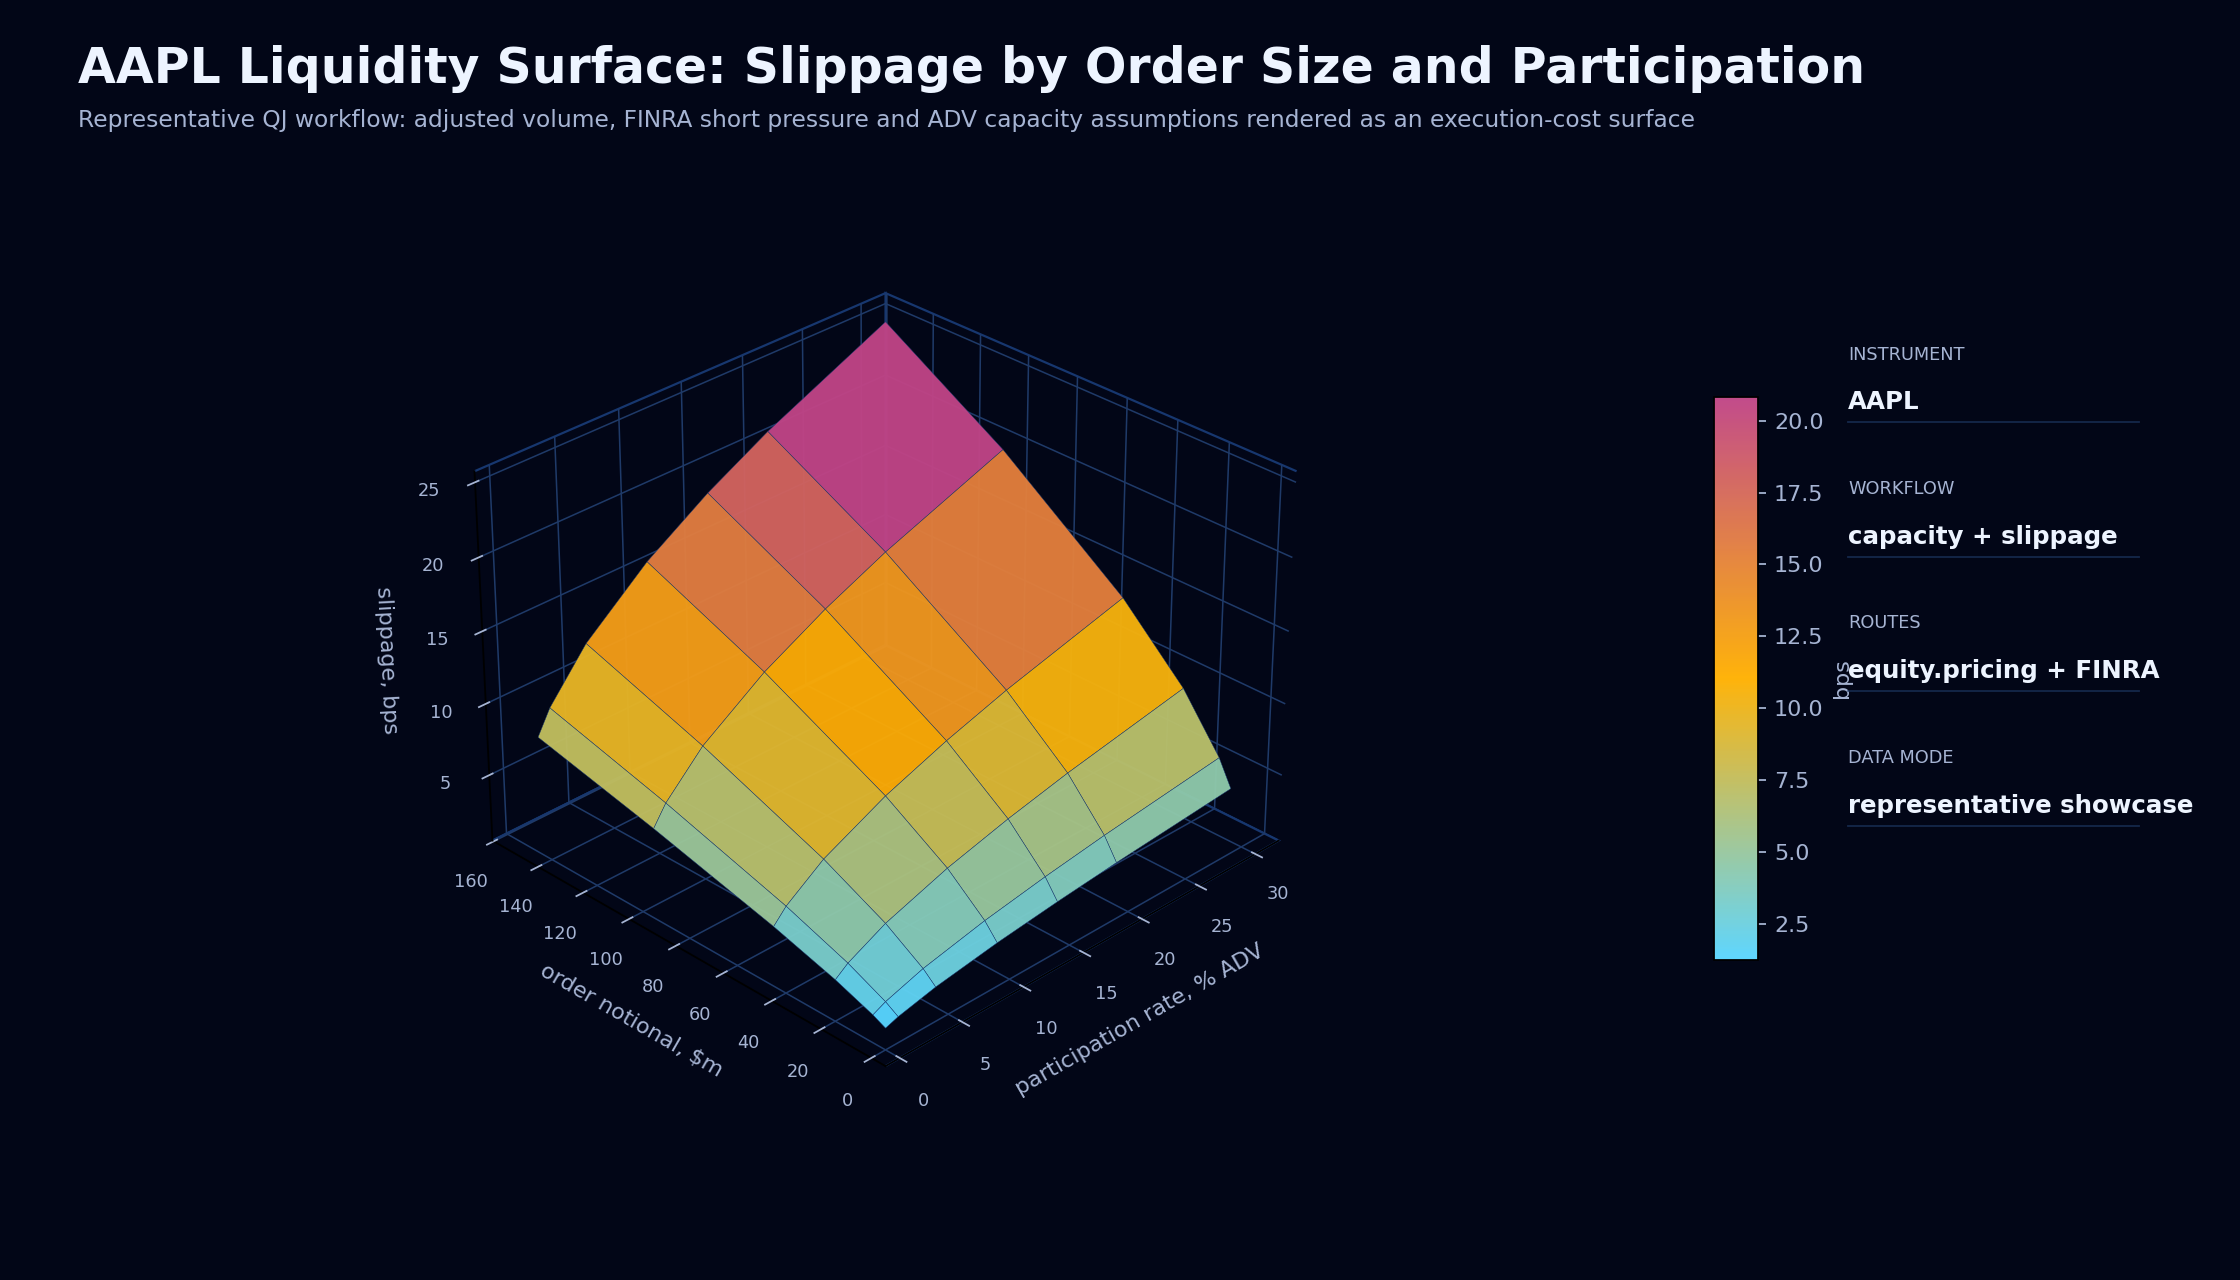
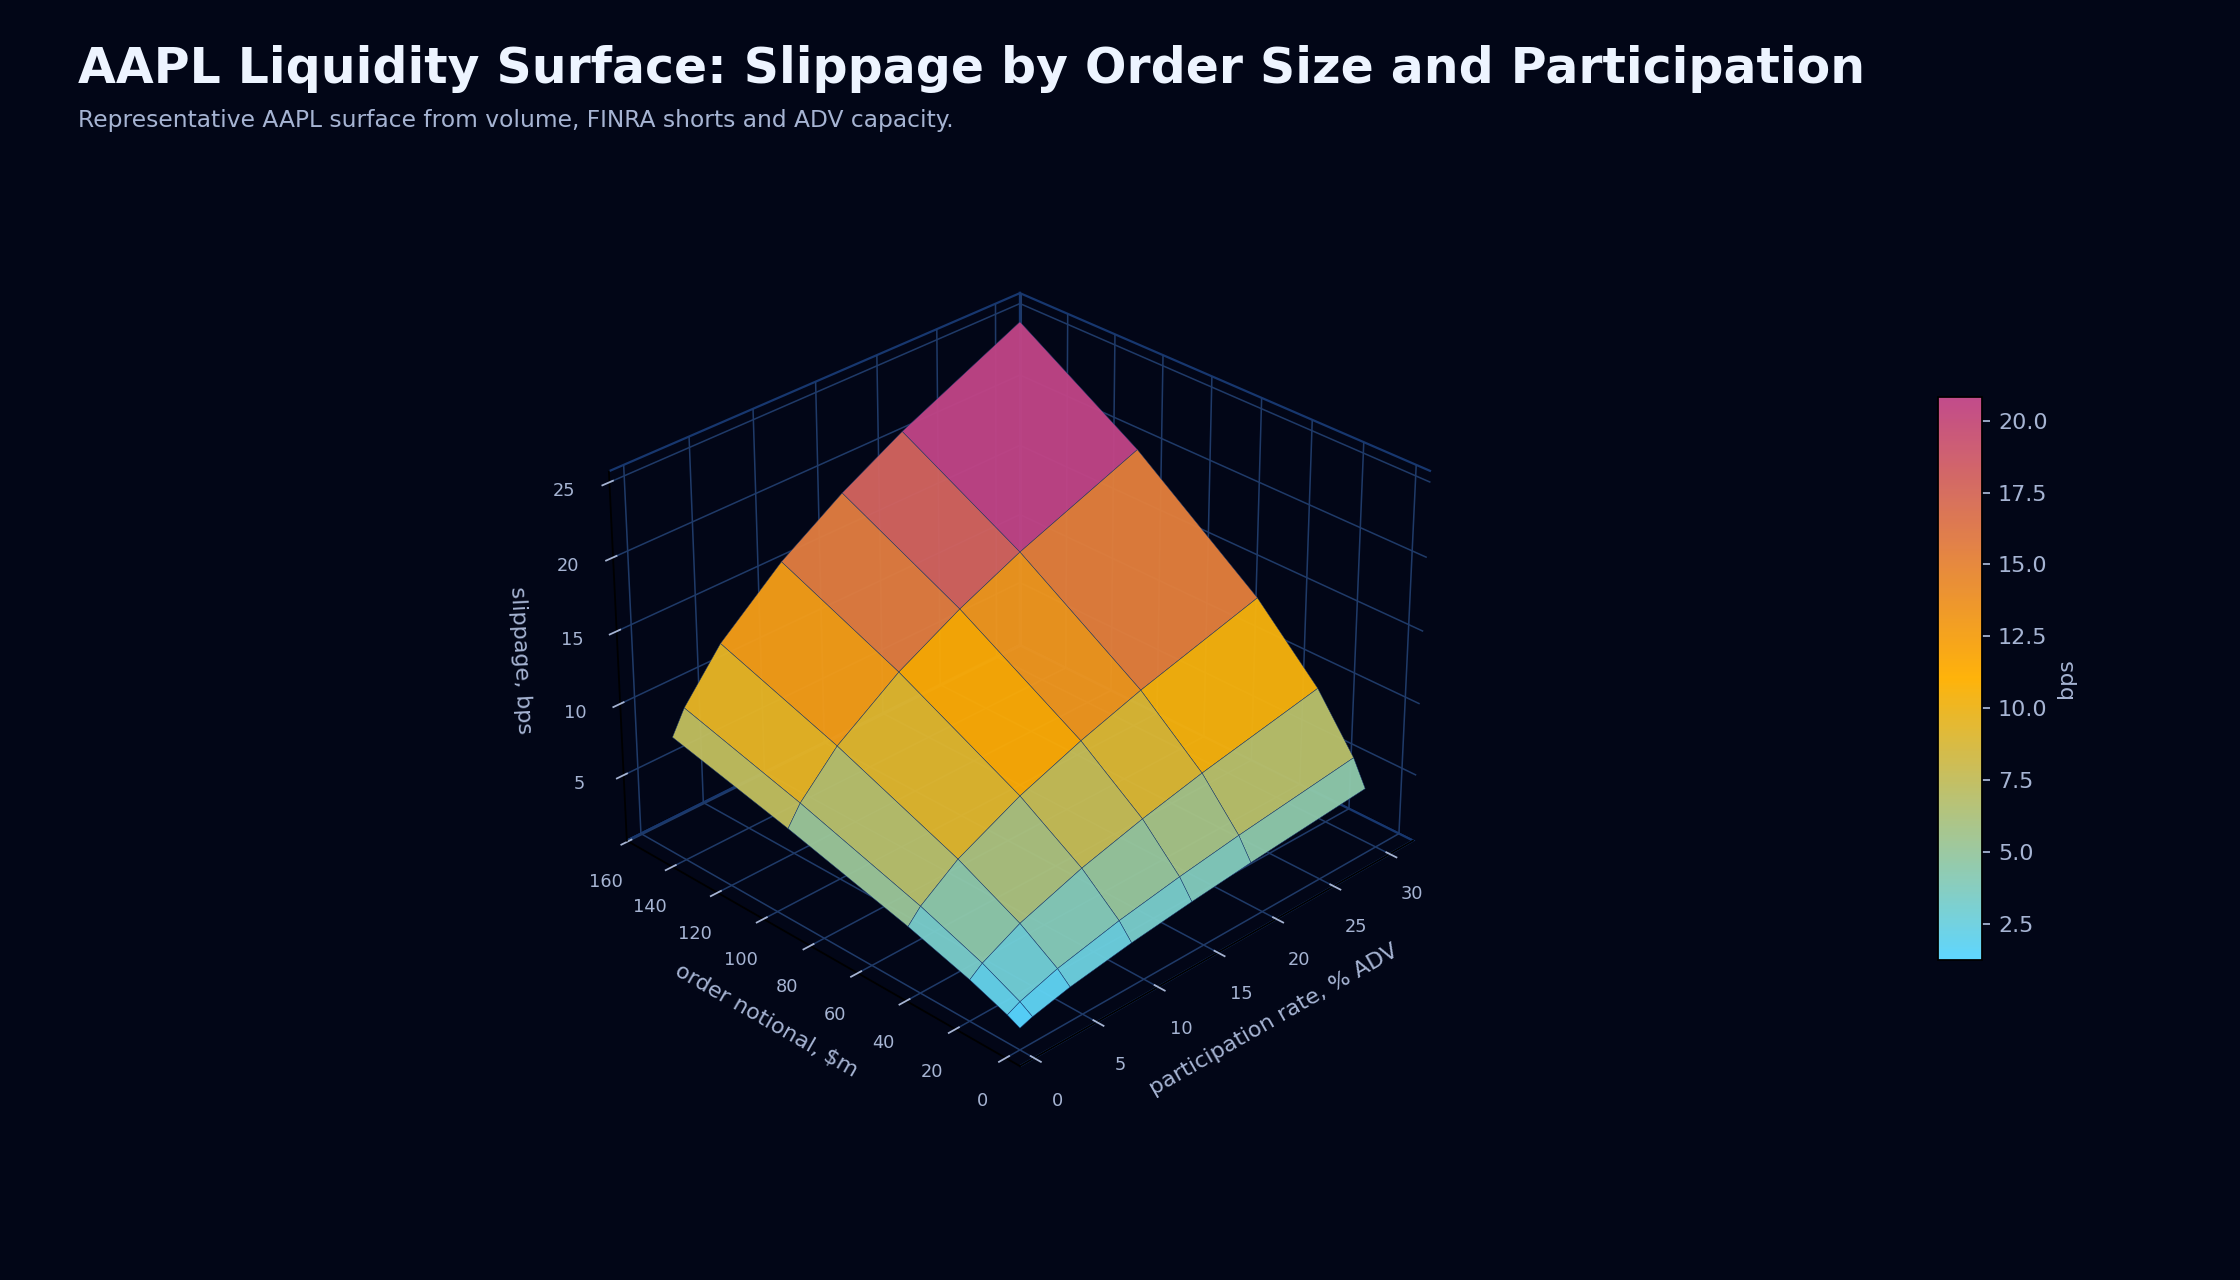
Simplify v3 surface chart captions

diff --git a/scripts/generate_v3_showcase_outputs.py b/scripts/generate_v3_showcase_outputs.py
@@ -25,7 +25,6 @@ matplotlib.use("Agg")
 
 import matplotlib.pyplot as plt
 from matplotlib.colors import LinearSegmentedColormap
-from matplotlib.lines import Line2D
 from mpl_toolkits.mplot3d import Axes3D  # noqa: F401
 import numpy as np
 import pandas as pd
@@ -130,18 +129,9 @@ def title(fig: plt.Figure, heading: str, subtitle: str) -> None:
 
 
 def surface_layout(fig: plt.Figure) -> tuple[plt.Axes, plt.Axes]:
-    ax = fig.add_axes([0.04, 0.13, 0.70, 0.69], projection="3d")
-    cax = fig.add_axes([0.765, 0.25, 0.020, 0.44])
+    ax = fig.add_axes([0.08, 0.13, 0.74, 0.69], projection="3d")
+    cax = fig.add_axes([0.865, 0.25, 0.020, 0.44])
     return ax, cax
-
-
-def surface_notes(fig: plt.Figure, rows: list[tuple[str, str]]) -> None:
-    y = 0.73
-    for label, value in rows:
-        fig.text(0.825, y, label.upper(), color=MUTED, fontsize=8, va="top")
-        fig.text(0.825, y - 0.035, value, color=TEXT, fontsize=11, weight="semibold", va="top")
-        fig.add_artist(Line2D([0.825, 0.955], [y - 0.060, y - 0.060], transform=fig.transFigure, color=GRID, linewidth=0.8, alpha=0.65))
-        y -= 0.105
 
 
 def legend_below(ax: plt.Axes, columns: int = 1) -> None:
@@ -814,14 +804,12 @@ def plot_orange_factor_risk_river(out: Path) -> None:
 
 
 def plot_options_vol_surface_3d(out: Path) -> None:
-    ticker = "SPY"
     expiries = np.array([7, 14, 30, 60, 90, 180, 365])
     moneyness = np.linspace(0.75, 1.25, 21)
     X, Y = np.meshgrid(moneyness, expiries)
     surface = 0.18 + 0.22 * (X - 1.0) ** 2 + 0.07 * np.exp(-Y / 45) + 0.035 * np.maximum(0, 1 - X)
     fig = plt.figure(figsize=(14, 8), facecolor=NAVY)
-    title(fig, "SPY Options Surface: Implied Volatility by Strike and Expiry", "Representative QJ workflow: options chain, expirations, underlying price and CBOE volatility context rendered as a 3D surface")
-    surface_notes(fig, [("instrument", ticker), ("workflow", "options chain + expiries"), ("routes", "derivatives.options / CBOE"), ("data mode", "representative showcase")])
+    title(fig, "SPY Options Surface: Implied Volatility by Strike and Expiry", "Representative surface from SPY option chain, expiries and vol context.")
     ax, cax = surface_layout(fig)
     style_3d(ax)
     surf = ax.plot_surface(X, Y, surface * 100, cmap=LinearSegmentedColormap.from_list("vol3d", [CYAN, ORANGE, PINK]), linewidth=0.15, edgecolor="#17376f", antialiased=True, alpha=0.95)
@@ -837,7 +825,6 @@ def plot_options_vol_surface_3d(out: Path) -> None:
 
 
 def plot_backtest_parameter_surface_3d(out: Path) -> None:
-    ticker = "SPY"
     fast = np.array([5, 10, 15, 20, 30, 40, 60])
     slow = np.array([80, 100, 125, 160, 200, 250, 320])
     X, Y = np.meshgrid(fast, slow)
@@ -845,8 +832,7 @@ def plot_backtest_parameter_surface_3d(out: Path) -> None:
     surface += 0.05 * np.sin(X / 8) + 0.04 * np.cos(Y / 45)
     best = np.unravel_index(np.argmax(surface), surface.shape)
     fig = plt.figure(figsize=(14, 8), facecolor=NAVY)
-    title(fig, "SPY Backtest Surface: SMA Fast / Slow Parameter Robustness", "Representative QJ workflow: adjusted OHLCV prepared for a strategy-grid backtest with Sharpe stability surface")
-    surface_notes(fig, [("instrument", ticker), ("strategy", "SMA crossover"), ("routes", "equity.pricing + backtester"), ("data mode", "representative showcase")])
+    title(fig, "SPY Backtest Surface: SMA Fast / Slow Parameter Robustness", "Representative SPY SMA-grid backtest surface from adjusted OHLCV.")
     ax, cax = surface_layout(fig)
     style_3d(ax)
     surf = ax.plot_surface(X, Y, surface, cmap=LinearSegmentedColormap.from_list("bt3d", [PINK, ORANGE, GREEN]), edgecolor="#17376f", linewidth=0.2, alpha=0.96)
@@ -961,14 +947,12 @@ def plot_regime_allocation_river(out: Path) -> None:
 
 
 def plot_liquidity_slippage_surface_3d(out: Path) -> None:
-    ticker = "AAPL"
     participation = np.array([1, 2, 5, 10, 15, 20, 30])
     notional = np.array([5, 10, 25, 50, 100, 150])
     X, Y = np.meshgrid(participation, notional)
     slippage = 1.6 * np.sqrt(X) * np.sqrt(Y / 25) + 0.025 * Y
     fig = plt.figure(figsize=(14, 8), facecolor=NAVY)
-    title(fig, "AAPL Liquidity Surface: Slippage by Order Size and Participation", "Representative QJ workflow: adjusted volume, FINRA short pressure and ADV capacity assumptions rendered as an execution-cost surface")
-    surface_notes(fig, [("instrument", ticker), ("workflow", "capacity + slippage"), ("routes", "equity.pricing + FINRA"), ("data mode", "representative showcase")])
+    title(fig, "AAPL Liquidity Surface: Slippage by Order Size and Participation", "Representative AAPL surface from volume, FINRA shorts and ADV capacity.")
     ax, cax = surface_layout(fig)
     style_3d(ax)
     surf = ax.plot_surface(X, Y, slippage, cmap=LinearSegmentedColormap.from_list("liq3d", [CYAN, ORANGE, PINK]), linewidth=0.2, edgecolor="#17376f", alpha=0.96)
@@ -1009,15 +993,13 @@ def plot_pairs_spread_zscore(out: Path) -> None:
 
 
 def plot_option_greeks_surface_3d(out: Path) -> None:
-    ticker = "SPY"
     spot_grid = np.linspace(80, 120, 25)
     expiry = np.array([7, 14, 30, 60, 90, 180])
     X, Y = np.meshgrid(spot_grid, expiry)
     gamma = np.exp(-((X - 100) ** 2) / 120) * np.exp(-Y / 240) * 1.8
     gamma -= 0.55 * np.exp(-((X - 112) ** 2) / 80) * np.exp(-Y / 80)
     fig = plt.figure(figsize=(14, 8), facecolor=NAVY)
-    title(fig, "SPY Options Greeks Surface: Net Gamma Exposure", "Representative QJ workflow: option chain strikes, expirations and underlying price transformed into a 3D Greeks exposure surface")
-    surface_notes(fig, [("instrument", ticker), ("workflow", "option chain greeks"), ("routes", "derivatives.options / greeks"), ("data mode", "representative showcase")])
+    title(fig, "SPY Options Greeks Surface: Net Gamma Exposure", "Representative gamma surface from SPY option strikes and expiries.")
     ax, cax = surface_layout(fig)
     style_3d(ax)
     surf = ax.plot_surface(X, Y, gamma, cmap=LinearSegmentedColormap.from_list("gamma3d", [PINK, NAVY, ORANGE]), edgecolor="#17376f", linewidth=0.2, alpha=0.96)
